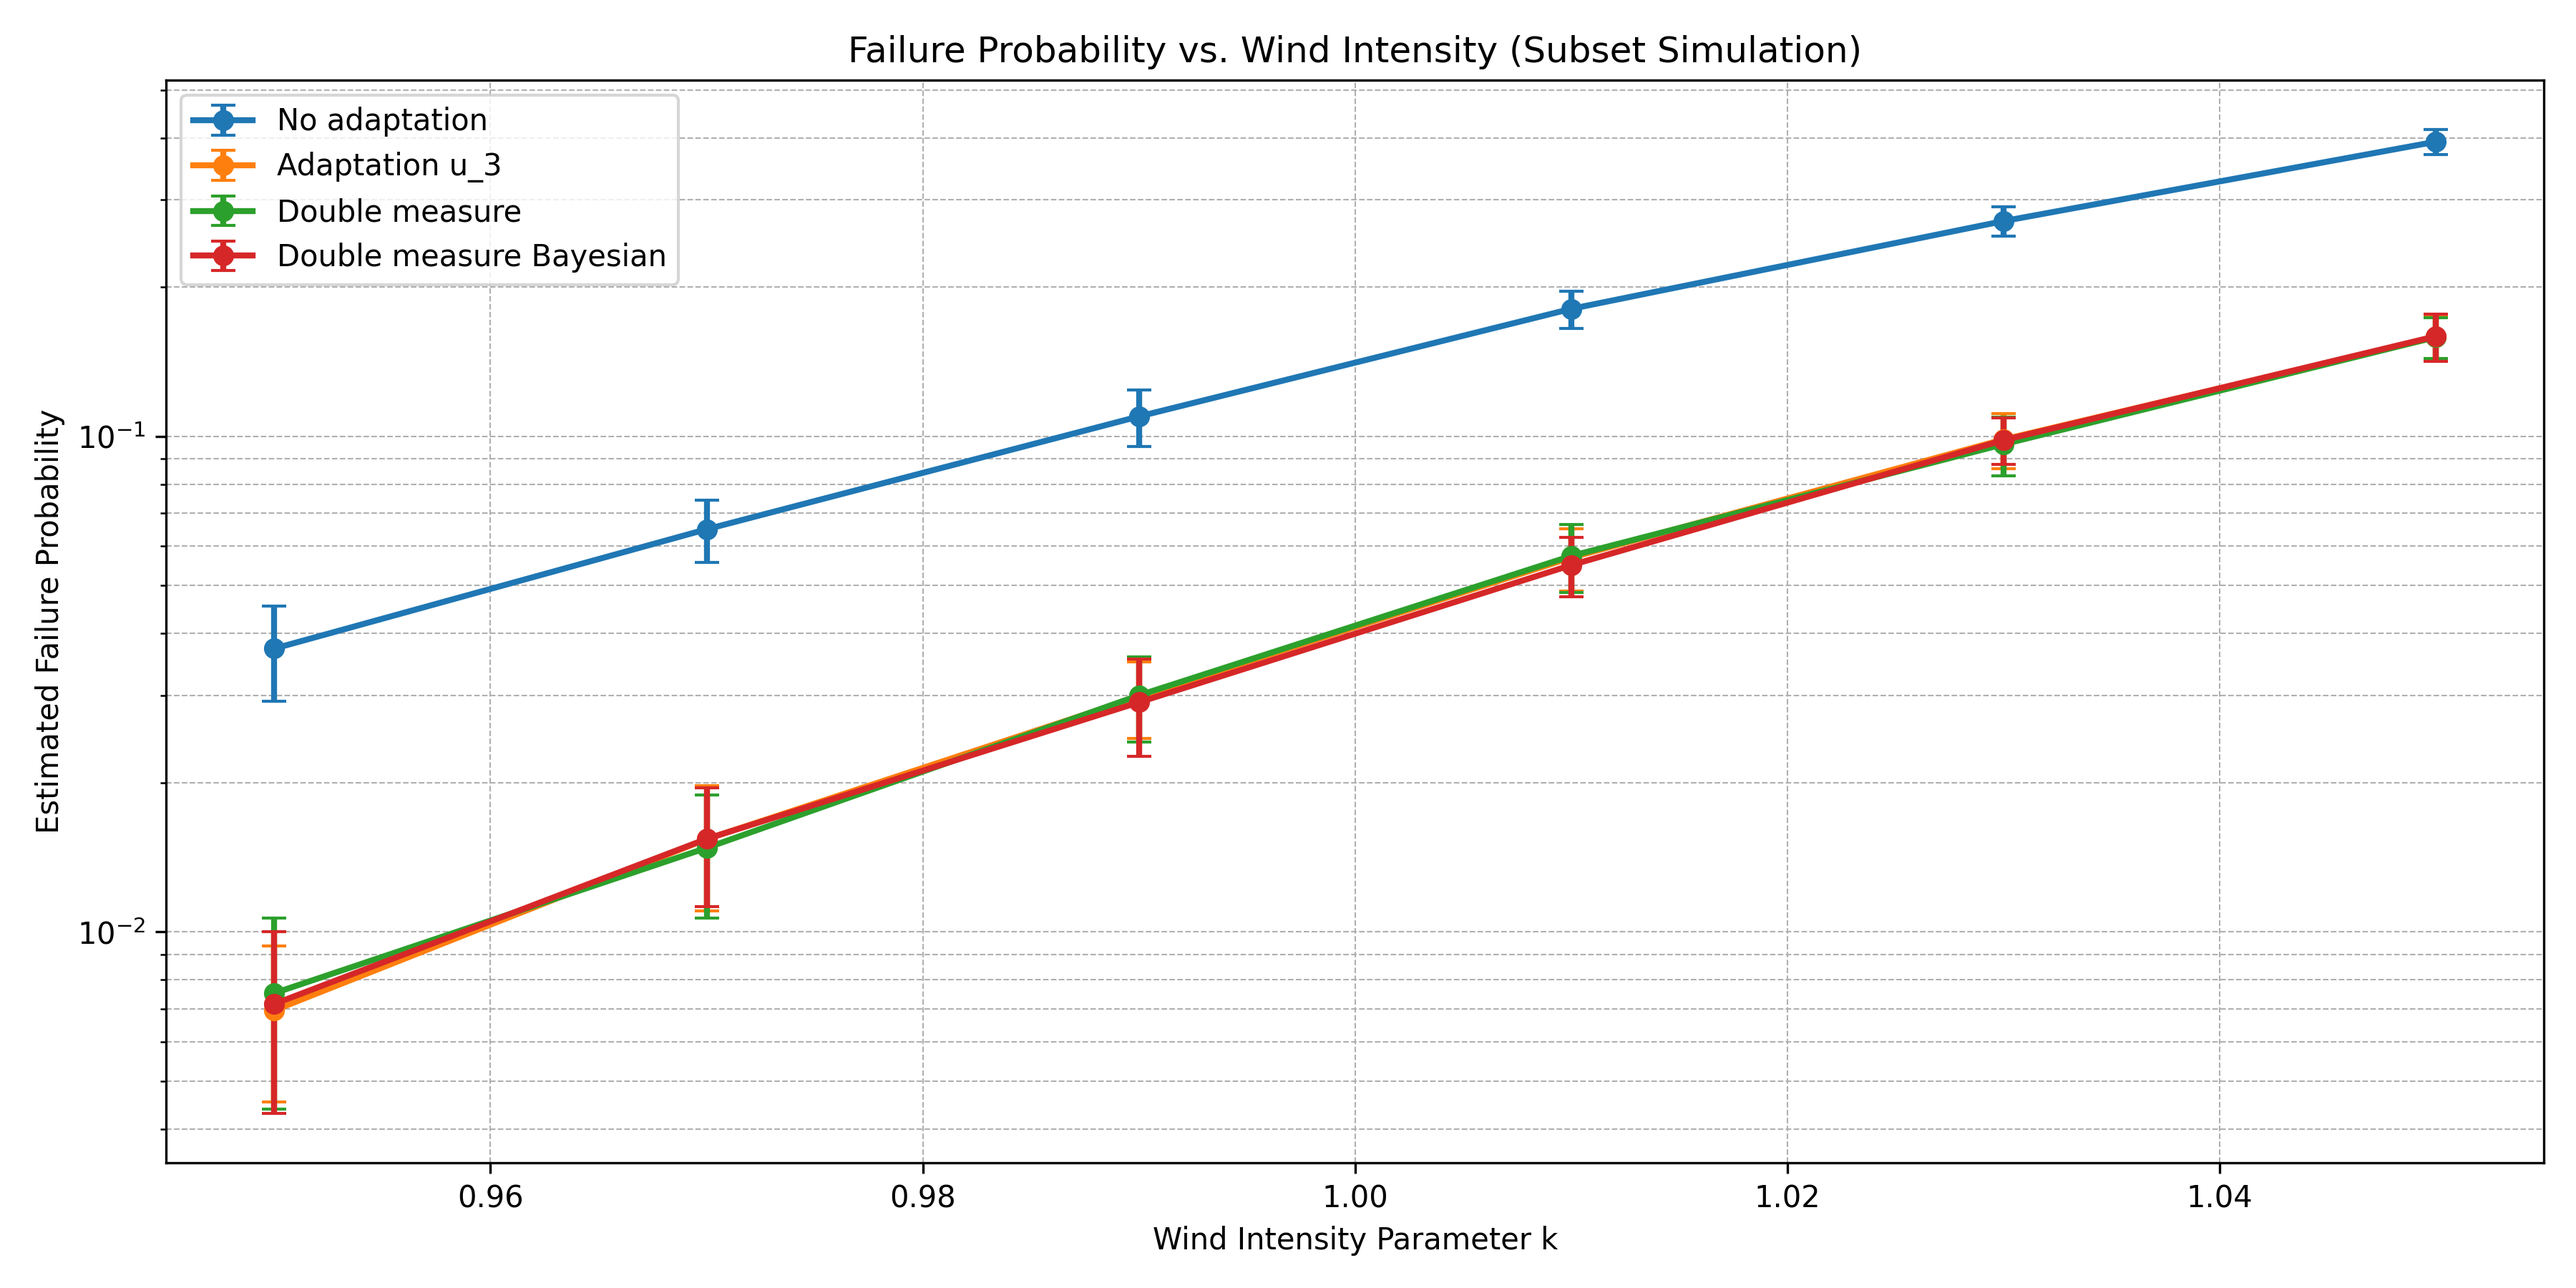
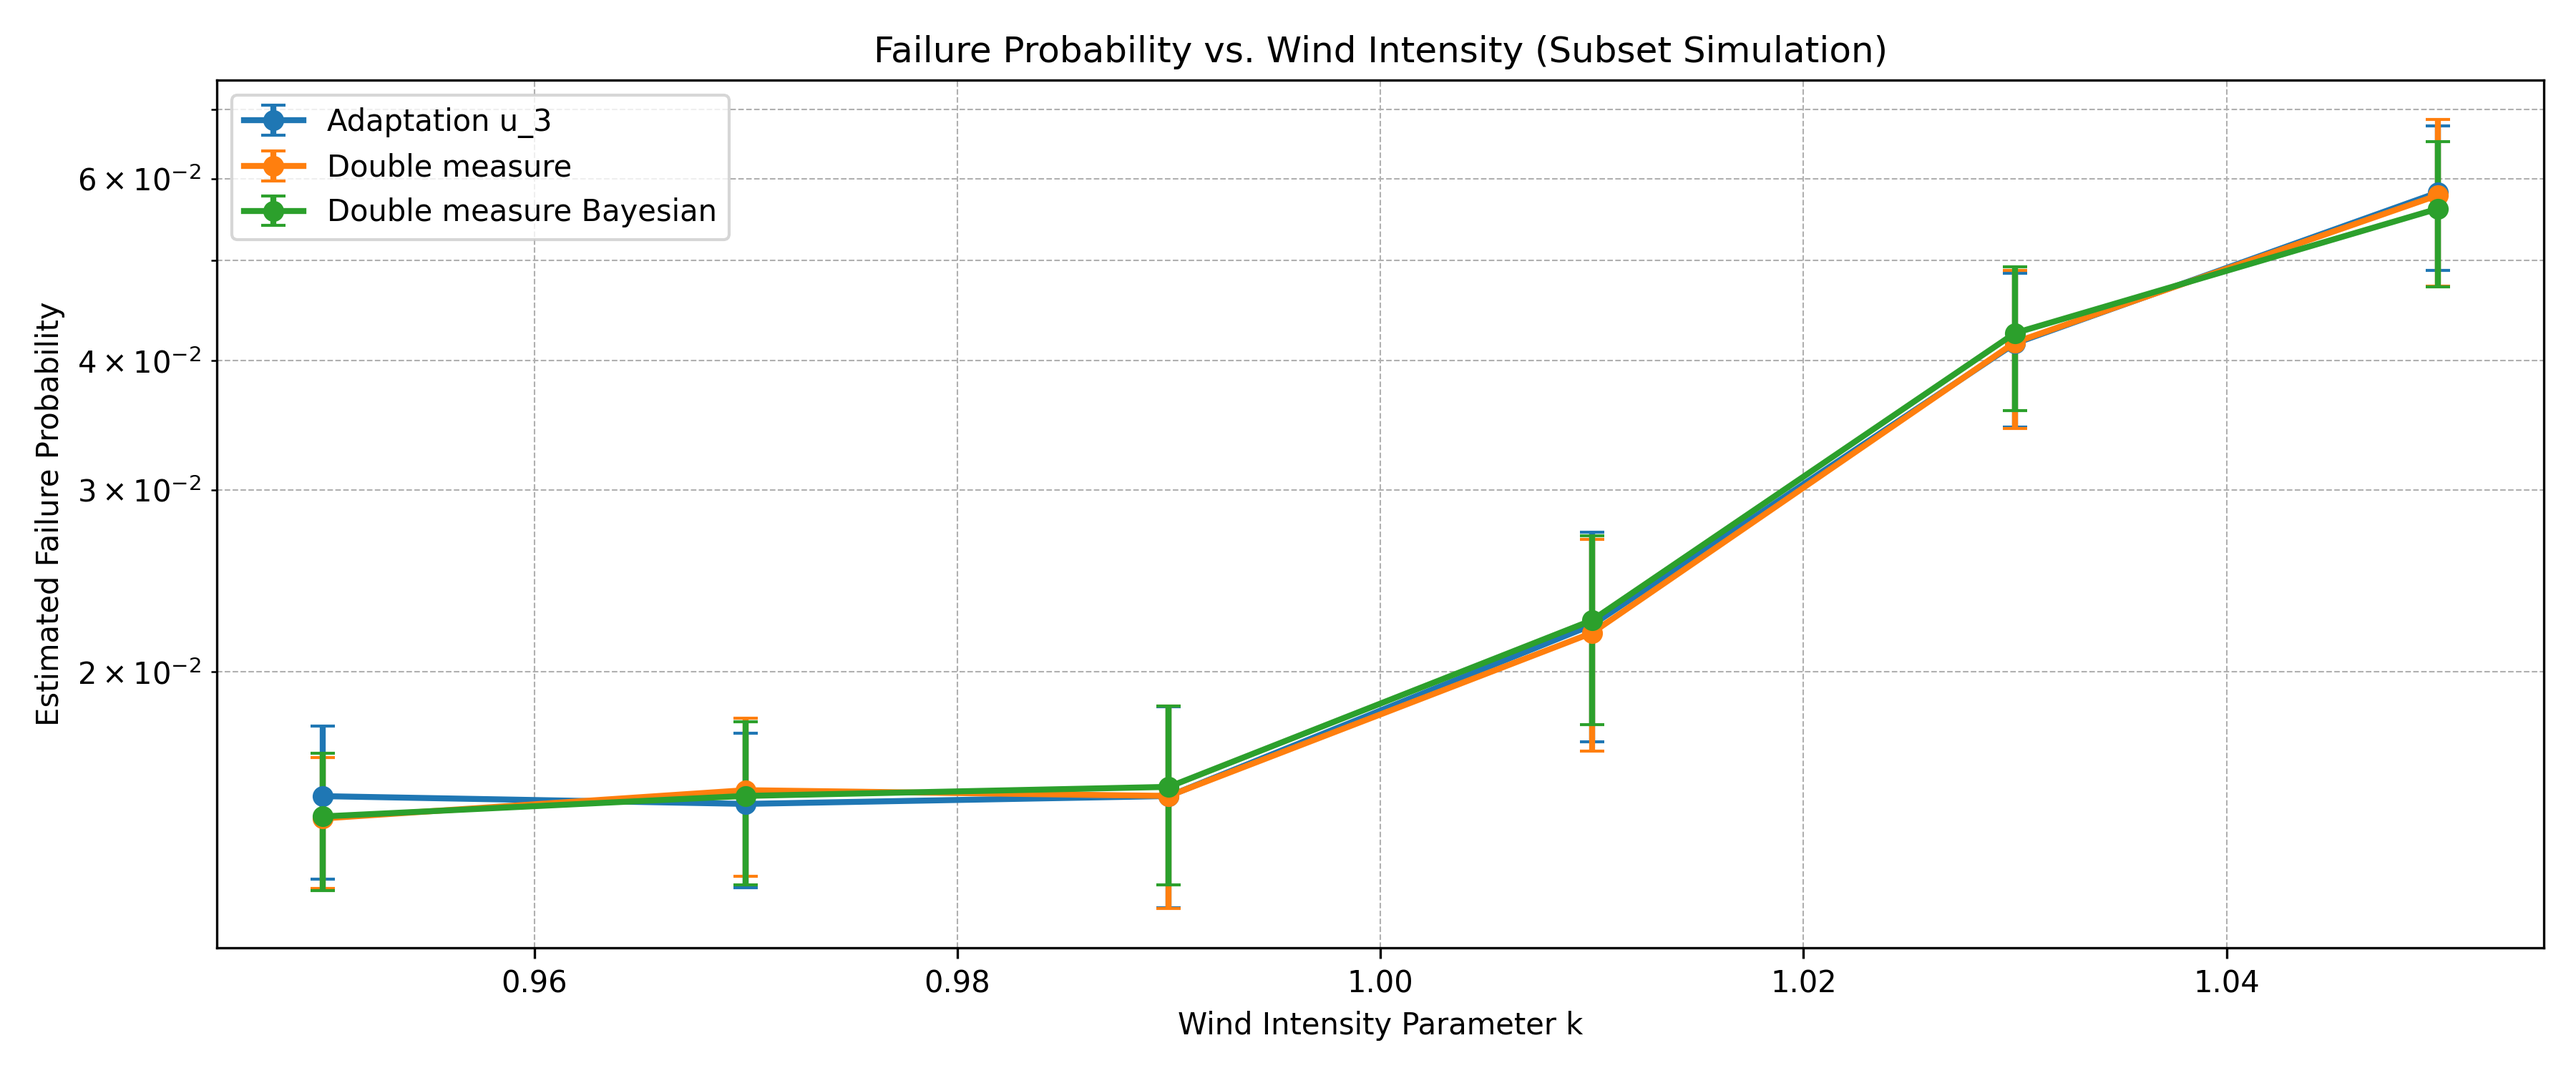
update: more accurate data

diff --git a/visualization.py b/visualization.py
@@ -3,9 +3,51 @@ import matplotlib.pyplot as plt
 import pandas as pd
 from pathlib import Path
 
-# Load results from saved file
-data_path = Path("subset_simulation_results.npy")
-results_by_strategy = np.load(data_path, allow_pickle=True).item()
+# Load results from saved files
+data_path_1 = Path("subset_simulation_results_1.npy")
+data_path_3 = Path("subset_simulation_results_3.npy")
+
+results_1 = np.load(data_path_1, allow_pickle=True).item()
+results_3 = np.load(data_path_3, allow_pickle=True).item()
+
+# Merge results: use results_3 to replace corresponding k values in results_1
+results_by_strategy = results_1.copy()
+
+# Get k values from results_3 for matching
+k_values_3 = set()
+for strategy, values in results_3.items():
+    for k_val, mean_p, std_p in values:
+        k_values_3.add(k_val)
+
+print(f"K values in results_3: {sorted(k_values_3)}")
+
+# Replace values from results_3 where both strategy and k value match
+for strategy, values_3 in results_3.items():
+    if strategy in results_by_strategy:
+        print(f"Processing strategy: {strategy}")
+        
+        # Create a dictionary for quick lookup of results_3 data by k value
+        results_3_dict = {k_val: (mean_p, std_p) for k_val, mean_p, std_p in values_3}
+        
+        # Replace matching k values in results_1
+        new_values = []
+        for k_val, mean_p, std_p in results_by_strategy[strategy]:
+            if k_val in results_3_dict:
+                # Replace with results_3 data
+                new_mean_p, new_std_p = results_3_dict[k_val]
+                new_values.append((k_val, new_mean_p, new_std_p))
+                print(f"  Replaced k={k_val}: {mean_p:.6f}±{std_p:.6f} -> {new_mean_p:.6f}±{new_std_p:.6f}")
+            else:
+                # Keep original results_1 data
+                new_values.append((k_val, mean_p, std_p))
+                print(f"  Kept k={k_val}: {mean_p:.6f}±{std_p:.6f}")
+        
+        results_by_strategy[strategy] = new_values
+    else:
+        print(f"Adding new strategy {strategy} from subset_simulation_results_3.npy")
+        results_by_strategy[strategy] = values_3
+
+print(f"Available strategies: {list(results_by_strategy.keys())}")
 
 # Prepare DataFrame for plotting
 df_list = []
@@ -20,9 +62,21 @@ for strategy, values in results_by_strategy.items():
 
 df = pd.DataFrame(df_list)
 
+# Get available strategies from the actual data
+available_strategies = df["Strategy"].unique().tolist()
+print(f"Strategies available for plotting: {available_strategies}")
+
+strategy_configs = [
+    "No adaptation", "Adaptation u_3", "Double measure", "Double measure Bayesian"
+]
+
+# Filter to only include strategies that exist in the data
+strategies_to_plot = [s for s in strategy_configs if s in available_strategies]
+print(f"Strategies to be plotted: {strategies_to_plot}")
+
 # Plot
-plt.figure(figsize=(12, 6))
-for strategy in df["Strategy"].unique():
+plt.figure(figsize=(12, 5))
+for strategy in strategies_to_plot:
     subset = df[df["Strategy"] == strategy]
     plt.errorbar(subset["k"], subset["Mean Probability"], yerr=subset["Std Dev"],
                  label=strategy, marker='o', capsize=4, linewidth=2)
@@ -30,12 +84,19 @@ for strategy in df["Strategy"].unique():
 plt.xlabel("Wind Intensity Parameter k")
 plt.ylabel("Estimated Failure Probability")
 plt.yscale("log")
-plt.title("Failure Probability vs. Wind Intensity (Subset Simulation)")
+plt.title("Failure Probability vs. Wind Intensity (Merged Results)")
 plt.grid(True, which="both", linestyle="--", linewidth=0.5)
+
+# Set better x-axis limits and ticks
+k_min = df["k"].min()
+k_max = df["k"].max()
+plt.xlim(k_min - 0.01, k_max + 0.01)  # Add small padding
+plt.xticks(sorted(df["k"].unique()))  # Show all k values as ticks
+
 plt.legend()
 plt.tight_layout()
-plt.savefig("subset_simulation_plot.png", dpi=300)
-print("Plot saved as subset_simulation_plot.png")
+plt.savefig("merged_subset_simulation_plot.png", dpi=300)
+print("Plot saved as merged_subset_simulation_plot.png")
 
 # Rebuild dataframe
 df_list = []
@@ -57,4 +118,5 @@ df_table_rounded = df_table.round(5)
 
 print("\nSummary Table of Results:")
 print(df_table_rounded)
-df_table_rounded.to_csv("subset_simulation_summary.csv")
+df_table_rounded.to_csv("merged_subset_simulation_summary.csv")
+print("Summary table saved as merged_subset_simulation_summary.csv")

diff --git a/sus_new.py b/sus_new.py
@@ -14,7 +14,10 @@ SHOW_PROGRESS = True
 n_runs = 100
 num_samples = 1000
 p0 = 0.1
-k_values = np.linspace(0.95, 1.05, 6)
+# k_values = np.linspace(0.95, 1.05, 6)
+k_values = np.array([1.01, 1.03, 1.05])  # Adjusted for better coverage
+# rhos = [0.12, 0.1, 0.08, 0.07, 0.07, 0.06]
+rhos = [0.06, 0.06, 0.06]  # Adjusted for better coverage
 
 # === STRATEGY CONFIGURATION ===
 res_no_adpt = np.load("res_no_adpt.npy", allow_pickle=True).item()
@@ -157,7 +160,7 @@ def limit_state_function(args):
     return reconstruct_trajectory()
 
 # === SUBSET SIMULATION CORE ===
-def subset_simulation(N, p0, u_opt, time_grid, k_mean, seed):
+def subset_simulation(N, p0, rho, u_opt, time_grid, k_mean, seed):
     np.random.seed(seed)
     num_seeds = int(N * p0)
     l = 0
@@ -171,22 +174,27 @@ def subset_simulation(N, p0, u_opt, time_grid, k_mean, seed):
     while threshold > 0.0:
         l += 1
         new_samples = N - num_seeds
+        acc = 0
         for i in range(new_samples):
-            k_new = 0.12 * k[i] + np.sqrt(1 - 0.12**2) * np.random.normal(k_mean, 0.08)
+            k_new = rho * k[i] + np.sqrt(1 - rho**2) * np.random.normal(k_mean, 0.08)
             s_new = (1.0 / k_new)**2
             G_new = limit_state_function((u_opt, time_grid, k_new, s_new))
             if G_new <= threshold:
                 k = np.append(k, k_new)
                 G = np.append(G, G_new)
+                acc += 1
             else:
                 k = np.append(k, k[i])
                 G = np.append(G, G[i])
 
         threshold = np.percentile(G, 100 * p0)
+        # if acc / new_samples < 0.2 or acc / new_samples > 0.5:
+        #     print(f"Threshold reached at iteration {l}: {threshold:.6f}, accepted {acc} new samples.")
         if threshold <= 0.0:
             return p0 ** (l-1) * np.mean(G <= 0.0)
         k = k[G <= threshold][:num_seeds]
         G = G[G <= threshold][:num_seeds]
+        rho = rho * (1.5 + 3 * (k_mean - 0.94) + (l-1) * 0.1)
 
     return p0 ** l
 
@@ -195,6 +203,7 @@ def run_subset_simulation(args):
 
 # === MAIN LOOP ===
 if __name__ == "__main__":
+    np.random.seed(44)  # For reproducibility
     start_time = time.time()
     results_by_strategy = {}
 
@@ -206,7 +215,7 @@ if __name__ == "__main__":
         for strategy_name, res in strategy_configs:
             print(f"\nRunning strategy: {strategy_name}")
             args_list = [
-                (num_samples, p0, res['u'], res['time_grid'], k, np.random.randint(0, 100000))
+                (num_samples, p0, rhos[i_k], res['u'], res['time_grid'], k, np.random.randint(0, 100000))
                 for _ in range(n_runs)
             ]
 
@@ -225,4 +234,4 @@ if __name__ == "__main__":
 
     total_time = time.time() - start_time
     print(f"\nAll simulations completed in {total_time / 60:.1f} minutes.")
-    np.save("subset_simulation_results.npy", results_by_strategy)
+    np.save("subset_simulation_results_3.npy", results_by_strategy)
